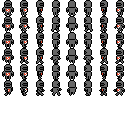
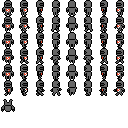
Add player death

Changed region(s): [[0.0, 0.75, 0.125, 0.875]]

diff --git a/js/entity.js b/js/entity.js
@@ -92,7 +92,11 @@ class Entity {
     
     isEnemy() {return false;}
     
+    isHurtByEnemy() {return false;}
+    
     isDead() {return this.dead;}
+    
+    renderHUD(ctx, width, scale) {}
 }
 
 class RoomCollision extends Entity {
@@ -204,7 +208,7 @@ var imageHandPositions = {
 
 class Player extends Entity {
     constructor(x,y) {
-        super(new RectHitbox(-6,-6,6,6),new RectHitbox(-4,-2,4,7),x,y);
+        super(new RectHitbox(-5,-4,5,6),new RectHitbox(-4,-2,4,7),x,y);
         this.slopeRunCounter = 0;
         this.track = null;
         this.tangible = true;
@@ -213,9 +217,27 @@ class Player extends Entity {
         this.weapon = new Sword(this);
         startImageLoad("player");
         startImageLoad("heart");
+        this.maxHealth = 6;
+        this.health = this.maxHealth;
+        this.damageTimer = 0;
     }
     
     update() {
+        if (this.dying) {
+            this.deathTheta += 0.2;
+            if (this.deathTheta < 20.4) {
+                this.direction = new Vector(Math.cos(this.deathTheta), Math.sin(this.deathTheta));
+            } else if (this.deathTheta < 28) {
+                this.direction = new Vector(0,1);
+            } else {
+                this.dead = true;
+                spawnSmokeClouds(this.pos.x,this.pos.y,8);
+            }
+            return;
+        }
+        if (this.damageTimer > 0) {
+            this.damageTimer--;
+        }
         if (this.track) {
             this.track.update();
             this.pos = this.track.getPosition();
@@ -294,16 +316,16 @@ class Player extends Entity {
     render(ctx) {
         if (image.player) {
             let dir = this.angleToImageIndex(this.direction.angleOf());
-            let img = this.standWalk.getStep();
+            let img = this.dying ? (this.deathTheta > 20.4 ? 6 : 0) : this.standWalk.getStep();
             let handLocation = null;
-            if (this.weapon.isActive()) {
+            if (this.weapon.isActive() && !this.dying) {
                 let wImg = this.weapon.getImage();
                 if (wImg >= 0) img = wImg;
                 handLocation = this.pos.plus(imageHandPositions[img][dir]);
                 this.weapon.renderUnderPlayer(ctx, handLocation);
             }
-            ctx.drawImage(image.player,dir * 16, img * 16,16,16,this.pos.x-8,this.pos.y-8,16,16);
-            if (this.weapon.isActive()) {
+            if (this.damageTimer % 20 < 10) ctx.drawImage(image.player,dir * 16, img * 16,16,16,this.pos.x-8,this.pos.y-8,16,16);
+            if (this.weapon.isActive() && !this.dying) {
                 this.weapon.renderAbovePlayer(ctx, handLocation);
             }
             if (DEBUG_SHOW_HITBOX) {
@@ -311,6 +333,25 @@ class Player extends Entity {
                 this.hitbox.render(ctx);
                 this.resetHitbox();
             }
+        }
+    }
+    
+    isHurtByEnemy() {return true;}
+    
+    isTangible() {return this.damageTimer == 0;}
+    
+    renderHUD(ctx, width, scale) {
+        drawLeftAlignedHealthBar(ctx, 0, 0, Math.ceil(2*scale/TILE_SIZE), this.health, this.maxHealth);
+    }
+    
+    takeKnockbackHit(knockback, damage) {
+        this.health -= damage;
+        if (this.health <= 0) {
+            this.dying = true;
+            this.deathTheta = this.direction.angleOf();
+            startCutscene((entity => {return (entity instanceof Particle) || (entity === this);}).bind(this));
+        } else {
+            this.damageTimer = 60;   
         }
     }
 }

diff --git a/js/main.js b/js/main.js
@@ -7,7 +7,7 @@ var camera;
 var floor;
 var roomPos = {"x":0,"y":0};
 var roomTransition = {"dx":0,"dy":0,"active":false,"newRoomOpacity":0,"fadedRoom":"new"};
-var doGameLogic = true;
+var normalGameLogic = true;
 
 const ASPECT_RATIO = ROOM_WIDTH/ROOM_HEIGHT;
 
@@ -110,6 +110,15 @@ function checkRoomTransition() {
     }
 }
 
+function startCutscene(allowedUpdates) {
+    canMoveFunction = allowedUpdates;
+    normalGameLogic = false;
+}
+
+function stopCutscene() {
+    normalGameLogic = true;
+}
+
 function startRoomTransition(dx,dy) {
     renderEntities(bgCtx);
     floor[roomPos.x][roomPos.y].unload();
@@ -120,14 +129,14 @@ function startRoomTransition(dx,dy) {
     roomTransition.dx = dx;
     roomTransition.dy = dy;
     roomTransition.active = true;
-    doGameLogic = false;
+    startCutscene(entity => {return false});
     player.translate(-roomTransition.dx * ROOM_PIXEL_WIDTH, -roomTransition.dy * ROOM_PIXEL_HEIGHT);
     camera = new RoomTransitionCamera(dx,dy);
 }
 
 function stopRoomTransition() {
     roomTransition.active = false;
-    doGameLogic = true;
+    stopCutscene();
     bgCtx.drawImage(newRoomCanvas,0,0);
 }
 
@@ -138,18 +147,16 @@ function updateAndRender() {
 }
 
 function update() {
-    if (doGameLogic) {
-        entities.forEach(entity => {
-            entity.update();
-        });
-        for (let i = 0; i < entities.length; i++) {
-            if (entities[i].isDead()) {
-                entities.splice(i,1);
-                i--;
-            }
+    entities.forEach(entity => {
+        if (normalGameLogic || canMoveFunction(entity)) entity.update();
+    });
+    for (let i = 0; i < entities.length; i++) {
+        if (entities[i].isDead()) {
+            entities.splice(i,1);
+            i--;
         }
-        checkRoomTransition();   
     }
+    if (normalGameLogic) checkRoomTransition();
     camera.update();
     camera = camera.nextCamera();
     for (let i = 0; i < keys.length; i++) {
@@ -196,6 +203,10 @@ function render() {
     renderEntities(ctx);
     
     ctx.setTransform(1,0,0,1,0,0);
+    
+    entities.forEach(entity => {
+        entity.renderHUD(ctx, canvas.width, screenTileWidth);
+    })
 }
 
 function renderEntities(ctx) {

diff --git a/js/enemy.js b/js/enemy.js
@@ -1,9 +1,31 @@
 function attackEnemies(hitbox, damage) {
+    let hit = false;
     entities.forEach(entity => {
         if (entity.isEnemy() && entity.isTangible() && entity.hitboxIntersects(hitbox)) {
             entity.takeKnockbackHit(hitbox.knockbackVector(), damage);
+            hit = true;
         }
     })
+    return hit;
+}
+
+function attackNonEnemies(hitbox, damage) {
+    let hit = false;
+    entities.forEach(entity => {
+        if (entity.isHurtByEnemy() && entity.isTangible() && entity.hitboxIntersects(hitbox)) {
+            entity.takeKnockbackHit(hitbox.knockbackVector(), damage);
+            hit = true;
+        }
+    })
+    return hit;
+}
+
+function drawLeftAlignedHealthBar(ctx, x, y, scale, health, maxHealth) {
+    for (let i = 0; i < maxHealth; i+=2) {
+        let img = (health <= 0) ? 2 : (health == 1 ? 1 : 0);
+        health -= 2;
+        ctx.drawImage(image.heart, img * 7, 0, 7, 6, x + 4 * scale * i, y, 7 * scale, 6 * scale);
+    }
 }
 
 class Enemy extends Entity {
@@ -38,13 +60,7 @@ class Enemy extends Entity {
     
     drawHealthBar(y, ctx) {
         if (image.heart) {
-            let left = this.pos.x - 2 * this.maxHealth + 0.5;
-            let renderHealth = this.health;
-            for (let i = 0; i < this.maxHealth; i+=2) {
-                let img = (renderHealth <= 0) ? 2 : (renderHealth == 1 ? 1 : 0);
-                renderHealth -= 2;
-                ctx.drawImage(image.heart, img * 7, 0, 7, 6, left + 4 * i, y + this.pos.y, 7, 6);
-            }
+            drawLeftAlignedHealthBar(ctx, this.pos.x - 2 * this.maxHealth + 0.5, y + this.pos.y, 1, this.health, this.maxHealth);
         }
     }
 }
@@ -66,6 +82,11 @@ class Spider extends Enemy {
         this.v.mult(0.95);
         if (toProperOrigin.mag() < 0.04 && this.v.mag() < 0.5) this.v.mult(0);
         this.pos.add(this.v);
+        if (this.isTangible()) {
+            this.positionHitbox();
+            attackNonEnemies(this.hitbox,1);
+            this.resetHitbox();
+        }
     }
     
     render(ctx) {
